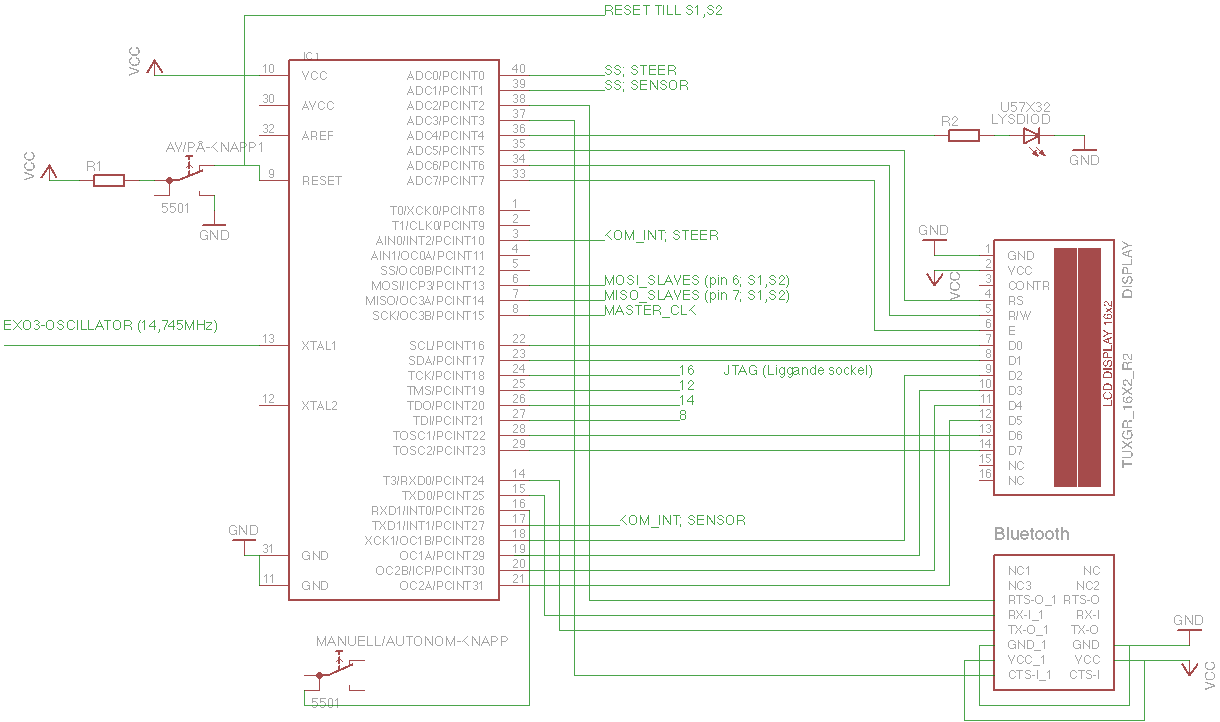
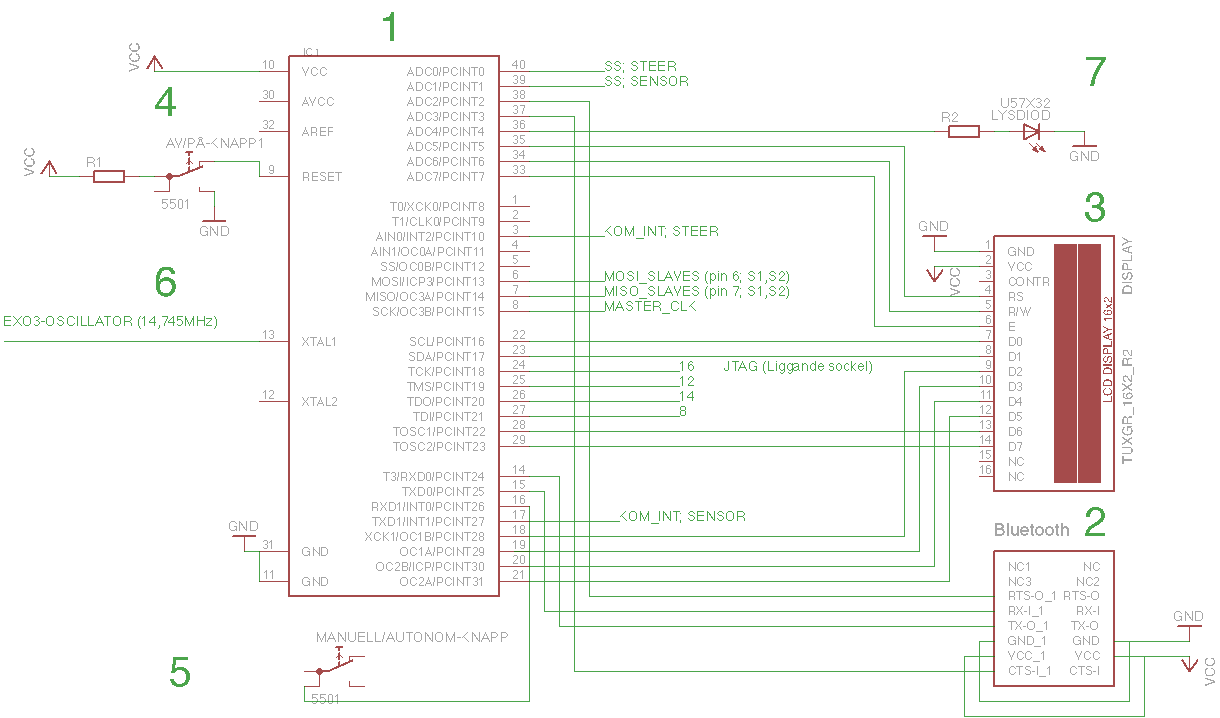
added number to kretsschemat

diff --git a/Skrivuppgifter/Teknisk_Dokumentation/tekdok.tex b/Skrivuppgifter/Teknisk_Dokumentation/tekdok.tex
@@ -232,7 +232,7 @@ Där DNC står för ''Do not care''.
 
 
 \section{Kommunikationsmodul}
-Modulen hanterar kommunikation mellan robotens olika delkomponenter samt med persondatorn via Bluetooth. Kommunikationsmodulen som syns i figur 3, kommer att agera master på robotens interna buss. Vid kommunikation mellan övriga moduler, dvs. sensor- och styrmodulen, kommer denna gå via kommunikationsmodulen. Kommunikationsmodulen levererar sensordata och manuella styrkommandon mellan roboten och PC-mjukvaran.
+Modulen hanterar kommunikation mellan robotens olika del samt med persondatorn via Bluetooth. Kommunikationsmodulen som syns i figur 3, kommer att agera master på robotens interna buss. Vid kommunikation mellan övriga moduler, dvs. sensor- och styrmodulen, kommer denna gå via kommunikationsmodulen. Kommunikationsmodulen levererar sensordata och manuella styrkommandon mellan roboten och PC-mjukvaran.
 
 \begin{figure}[htp] %Placera här om det finns plats, annars så snart som möjligt, på toppen av en sida.
   \begin{center}
@@ -254,15 +254,16 @@ Fall 2: Sensormodulen signalerar att ny sensordata är redo, se  figur~\ref{fig:
 Fall 3: Kartdata skickas från kommunikationsmodulen till PC, se figur~\ref{fig:case3flow}. 
  
 \subsection{Komponenter}
-\begin{itemize}
+Komponenterna är numrerade och finns att hitta i kretsschemat, se Appendix A.
+\begin{enumerate}
   \item AVR processor av typen ATMega1284
   \item Bluetoothsdongel, Firefly, BlueSmirf Gold
   \item LCD-Display
-  \item Två stycken knappar
+  \item Resetknapp
+  \item Manuell/Autonom knapp
   \item Kristalloscillator EXO-3, 14.745 MHz
   \item Lysdiod
-  \item Bandkabel
-\end{itemize}
+\end{enumerate}
 
 \subsection{Buss}
 Mellan processorerna används SPI som bussprotokoll. Kommunikationsmodulen agerar master medan styr- och sensormodul agerar slaves. Kommunikation kommer alltid att initieras av master och om slave vill skicka data, genererar de ett avbrott på master som talar om att de har data som är redo att skickas. 
